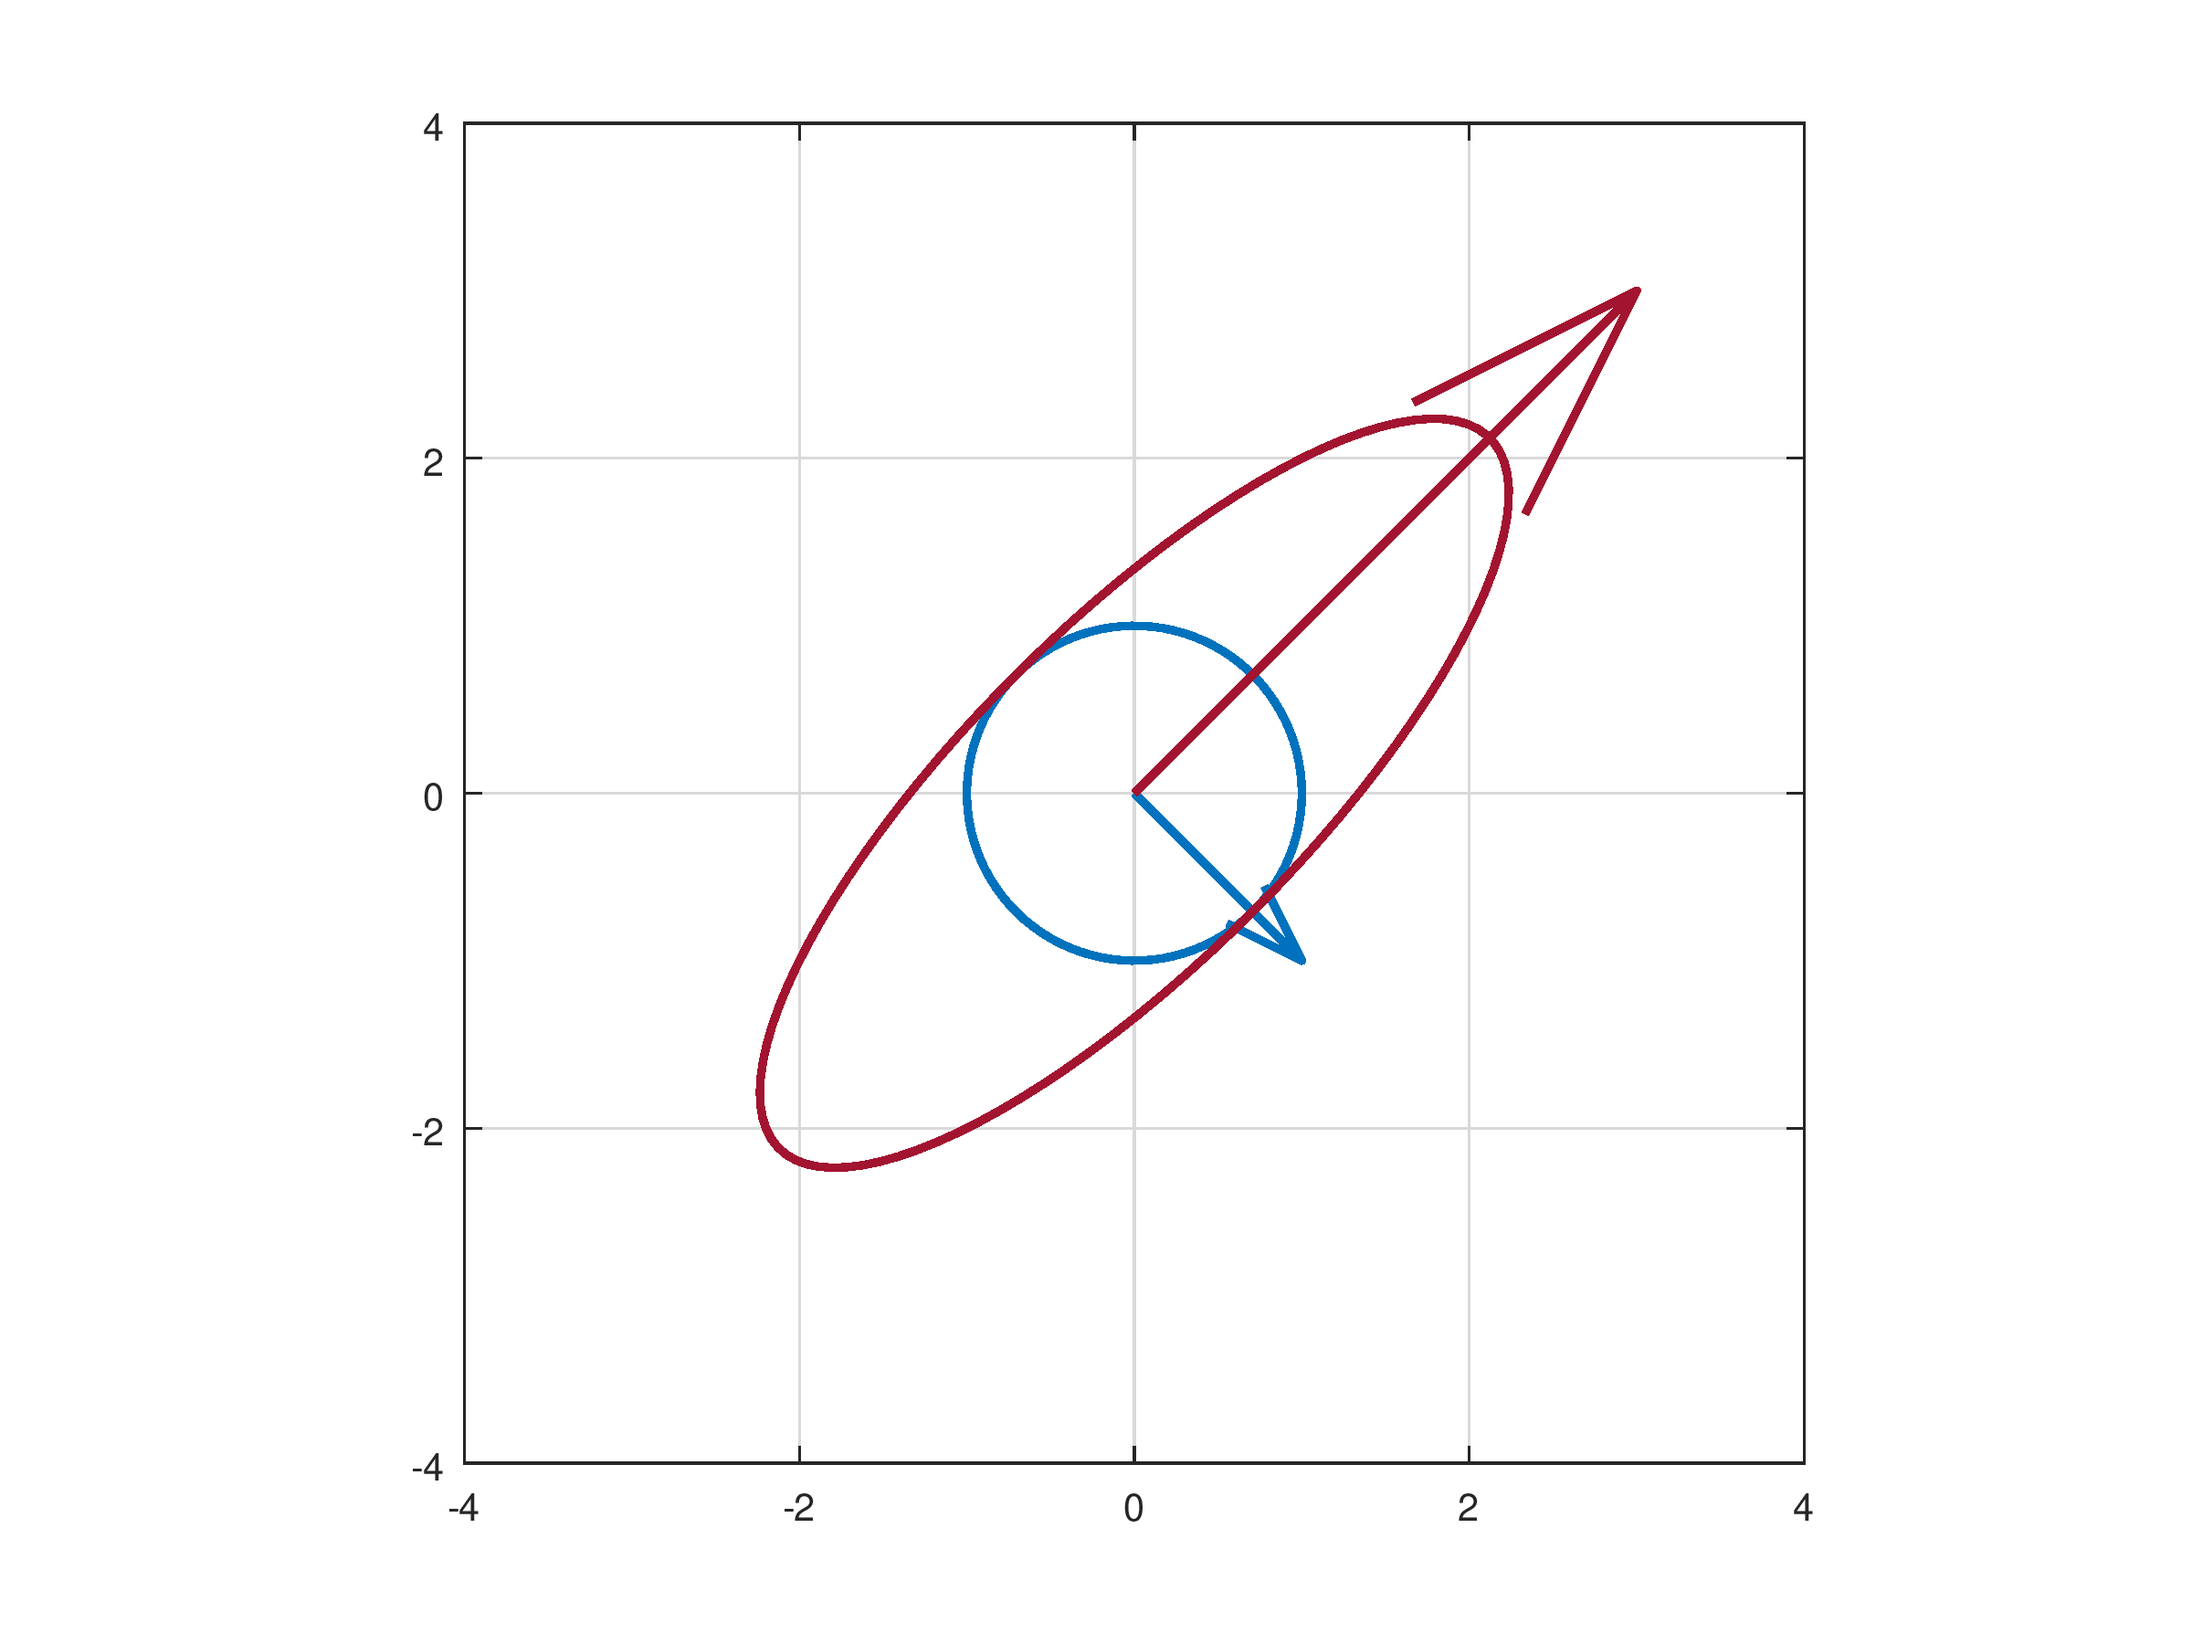
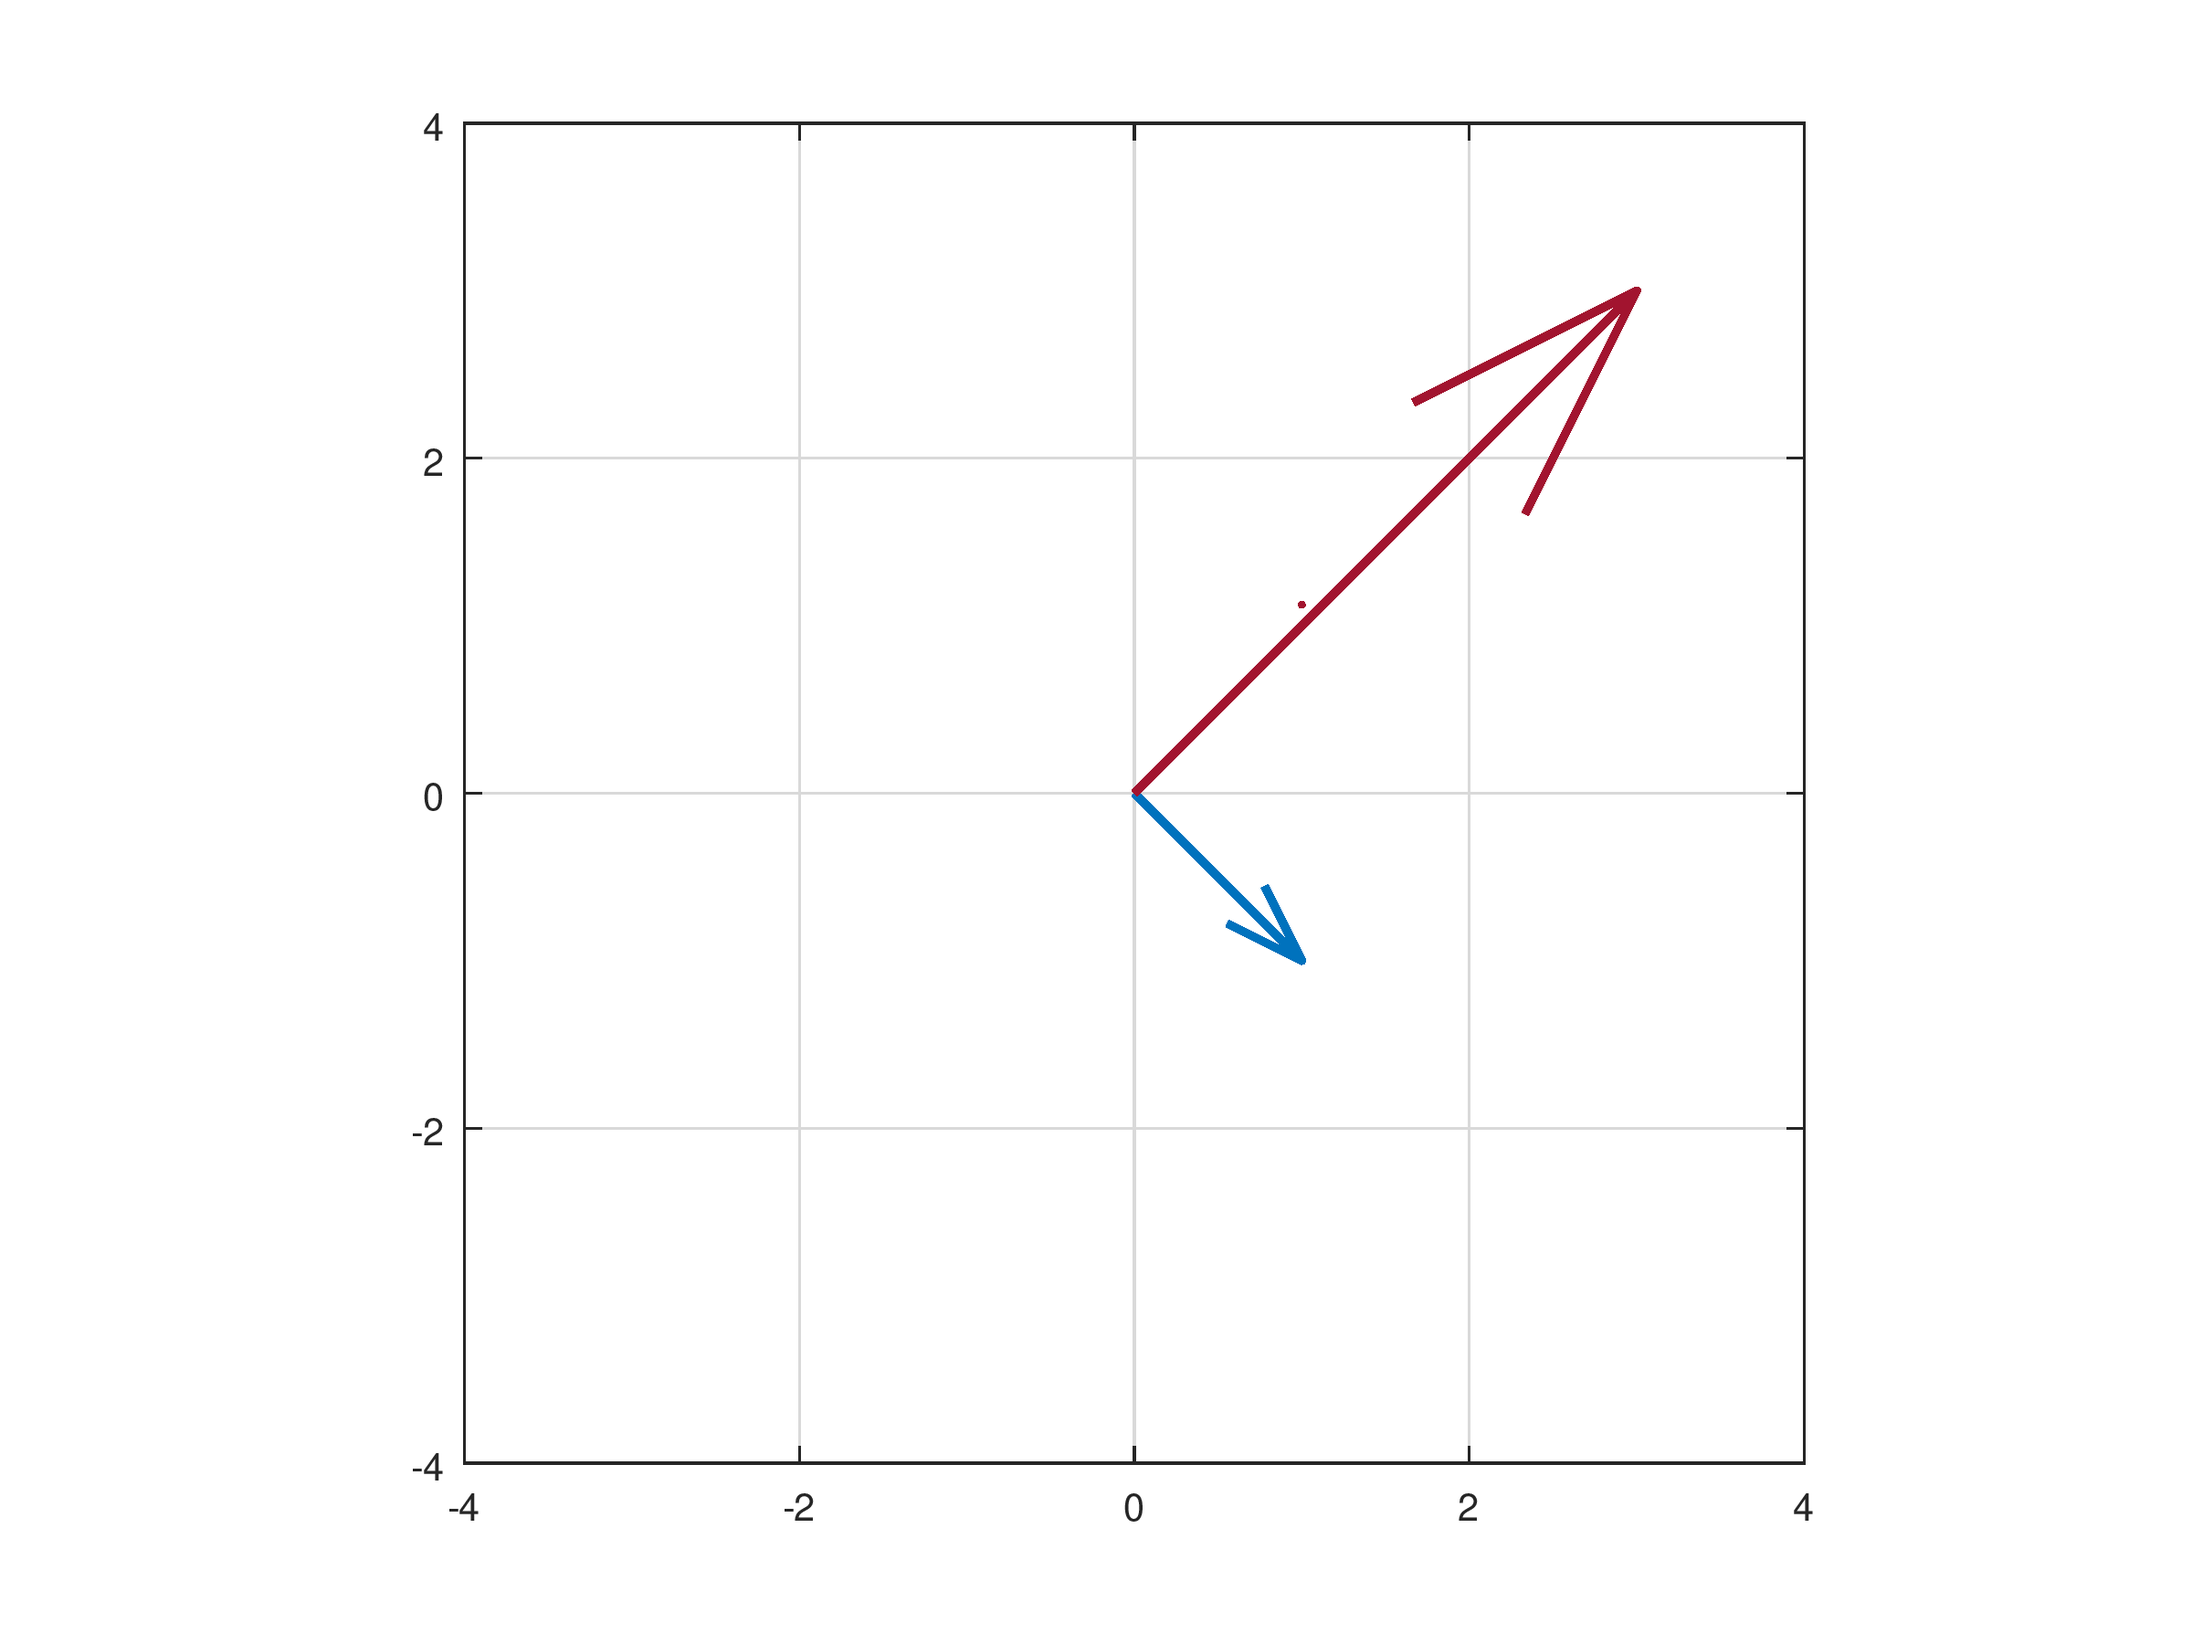
updated task 4

diff --git a/Linear Algebra/Project 1/Task 4.m b/Linear Algebra/Project 1/Task 4.m
@@ -9,30 +9,35 @@ xc = cos(t);
 yc = sin(t);
 circle = [xc, yc];
 ellipse = [xc + 2*yc, 2*xc + yc];
-eigvec1 = abs(-1)*[1; -1];
-eigvec2 = abs(3)*[1; 1];
+eigvec_i1 = abs(-1)*[1; -1];
+eigvec_i2 = abs(3)*[1; 1];
+eigvec_ii1 = 1*[1; 0];
+eigvec_ii2 = 1*[0; 1];
 fig1 = figure();
 hold on
 plot(circle(:,1), circle(:,2), "linewidth", 2, "color", [0 0.4470 0.7410]);
 hold on
-quiver(0, 0, eigvec1(1), eigvec1(2), "linewidth", 2, "color", [0 0.4470 0.7410]);
+quiver(0, 0, eigvec_i1(1), eigvec_i1(2), "linewidth", 2, "color", [0 0.4470 0.7410]);
 hold on
 plot(ellipse(:,1), ellipse(:,2), "linewidth", 2, "color", [0.6350 0.0780 0.1840]);
 hold on
-quiver(0, 0, eigvec2(1), eigvec2(2), "linewidth", 2, "color", [0.6350 0.0780 0.1840]);
+quiver(0, 0, eigvec_i2(1), eigvec_i2(2), "linewidth", 2, "color", [0.6350 0.0780 0.1840]);
 grid on;
 box on;
 axis([axis_low, axis_high, axis_low, axis_high], "square");
 print(fig1,'-dpngalpha', '-r300', '4i.png');
-exit
 ellipse = [xc, yc];
-
 fig2 = figure();
 hold on
 plot(circle(:,1), circle(:,2), "linewidth", 2, "color", [0 0.4470 0.7410]);
 hold on
+quiver(0, 0, eigvec_ii1(1), eigvec_ii1(2), "linewidth", 2, "color", [0 0.4470 0.7410]);
+hold on
 plot(ellipse(:,1), ellipse(:,2), "linewidth", 2, "color", [0.6350 0.0780 0.1840]);
+hold on
+quiver(0, 0, eigvec_ii2(1), eigvec_ii2(2), "linewidth", 2, "color", [0.6350 0.0780 0.1840]);
 grid on;
 box on;
 axis([axis_low, axis_high, axis_low, axis_high], "square");
 print(fig2,'-dpngalpha', '-r300', '4ii.png');
+pause
